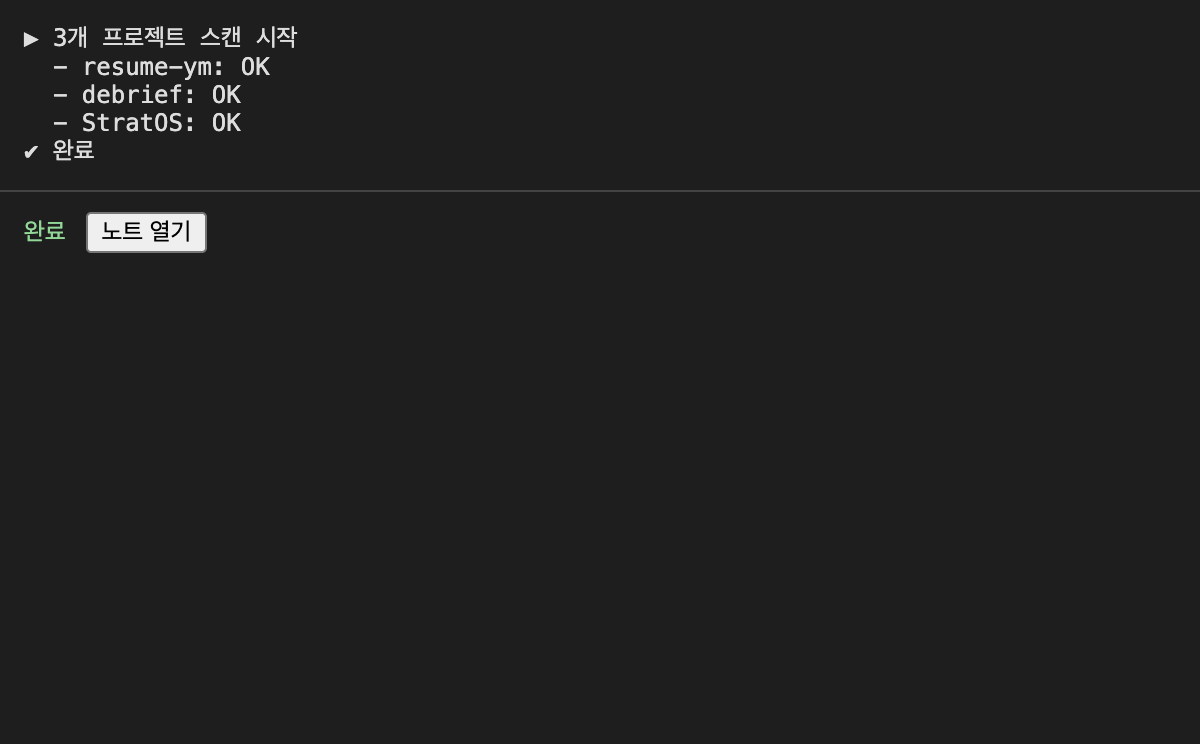
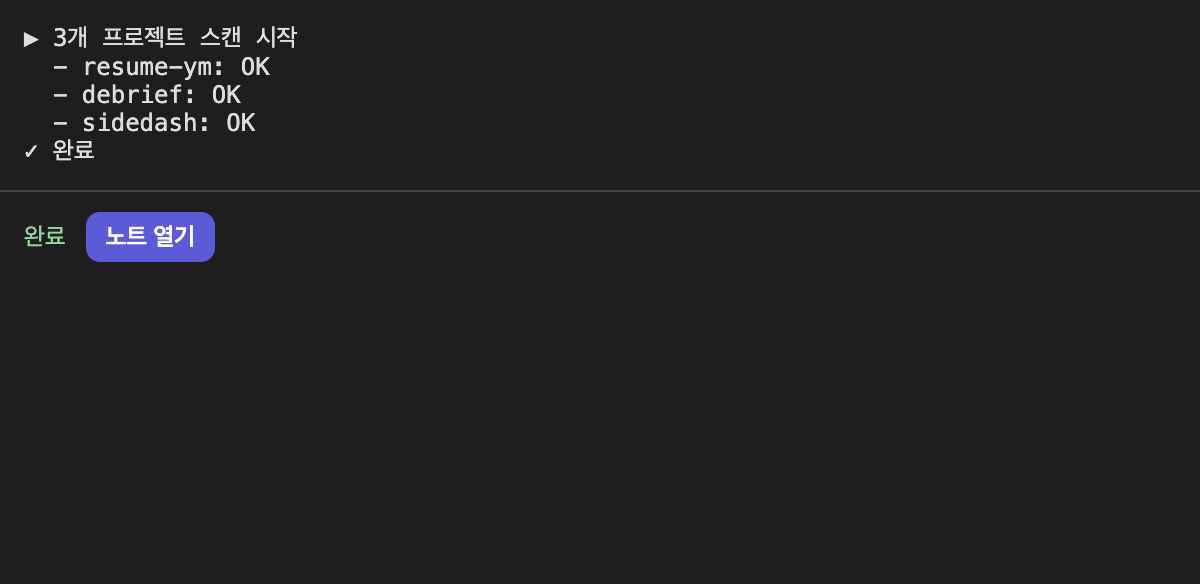
Refresh screenshots, trim a redundant scope disclaimer from the intro
popup.png and log-window.png were stale (predate the styled log button
and current project data); added target-select.png to actually show
the hint/preview feature described in the previous commit. Also
dropped the intro's "배포 스코프에서 제외" sentence — it just repeated
what the dedicated 스코프 밖 section already covers in detail.

Claude-Session: https://claude.ai/code/session_01ByjxFBDNCBt798wePZ1mu1

Changed region(s): [[0.0, 0.0308, 1.0, 0.4623]]

diff --git a/README.md b/README.md
@@ -4,9 +4,6 @@
 macOS 메뉴바에서 버튼 클릭으로 실행할 수 있게 해주는 개인용 Electron 대시보드입니다.
 TypeScript(strict) + electron-vite로 작성되어 있습니다.
 
-배포를 목표로 하지 않는 개인 전용 도구로, 코드사이닝/노터라이제이션/자동 업데이트/App Store
-배포는 스코프에서 제외되어 있습니다.
-
 ![프로젝트 목록 팝업](docs/screenshots/popup.png)
 
 ## 왜 만들었나
@@ -33,6 +30,9 @@ TypeScript(strict) + electron-vite로 작성되어 있습니다.
   - `run.sh`가 있으면 "파이프라인 실행" 버튼 (예: debrief) — 누르면 다른 등록된
     프로젝트를 대상으로 체크할 수 있는 패널이 열리고, 체크한 프로젝트의 경로가
     `run.sh` 인자로 전달됩니다. 실제로 실행될 명령을 실시간으로 미리보기로 보여줍니다
+
+    ![대상 프로젝트 선택 패널](docs/screenshots/target-select.png)
+
   - `package.json`의 `scripts.pdf`가 있으면 "PDF 생성" 버튼 (예: resume-ym)
 - 액션 실행 시 별도 로그 창을 열어 stdout/stderr를 실시간 스트리밍
 
